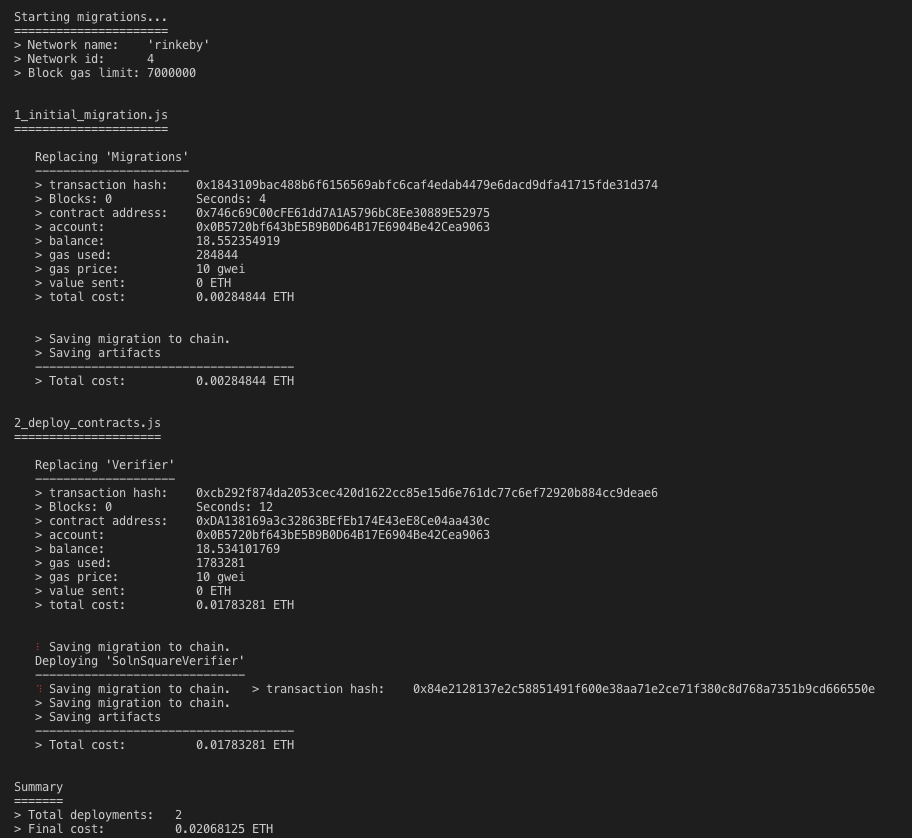
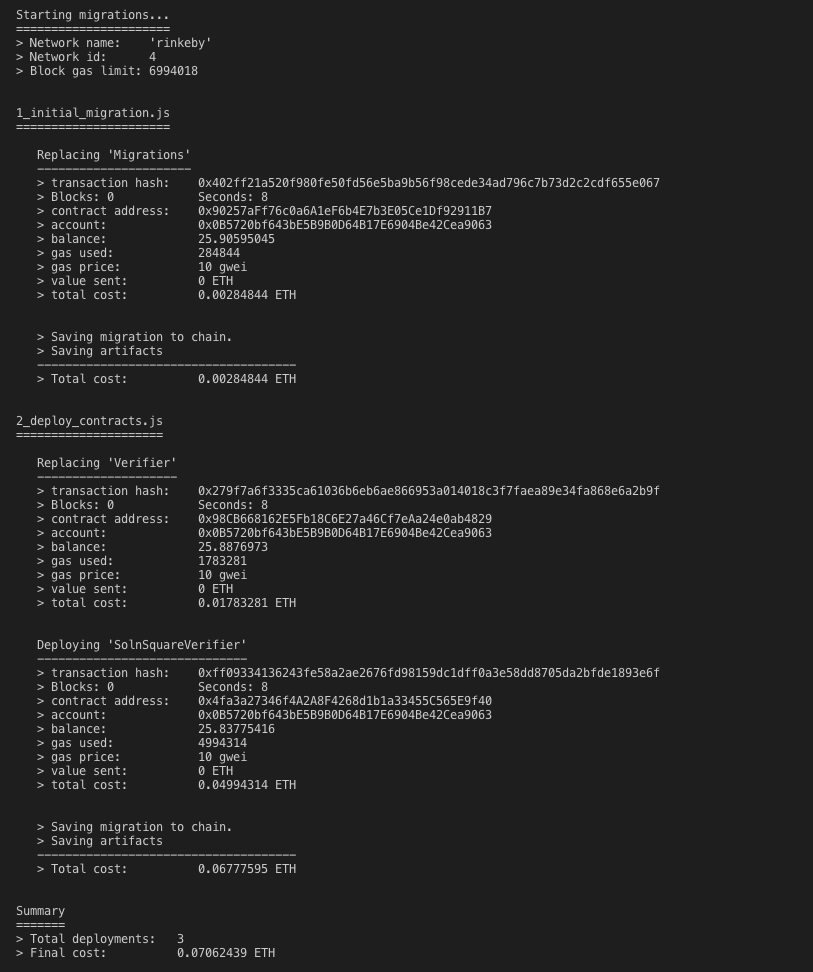
update documenatation for deploying new contract and minted 10 tokens

Changed region(s): [[0.0, 0.0, 0.7995, 0.8998], [0.0, 0.9308, 0.3383, 1.0], [0.4613, 0.8067, 0.9533, 0.8377]]

diff --git a/Blockchain-ending/eth-contracts/migrations/2_deploy_contracts.js b/Blockchain-ending/eth-contracts/migrations/2_deploy_contracts.js
@@ -9,7 +9,7 @@ module.exports = function(deployer, network, accounts) {
 
     deployer.deploy(Verifier, {from: accounts[0]})
     .then(() => {
-      deployer.deploy(SolnSquareVerifier, Verifier.address, "SquareVerifier", "SVT", {from: accounts[0]})
+      return deployer.deploy(SolnSquareVerifier, Verifier.address, "SquareVerifier", "SVT", {from: accounts[0]})
       .then(() => {
           // let config = {
           //   localhost: {

diff --git a/Blockchain-ending/README.md b/Blockchain-ending/README.md
@@ -34,15 +34,38 @@ To deploy the app to Rinkeby test network:
 
 ![truffle migration](images/deploy_rinkeby.png)
 
+The deployed addresses are: 
 
-The contract address is: 
-
-`0x73DA2c0225e9C7fF530e8725bAd3F0980A6dAFCb`
+* Deploying 'Verifier'
+```
+    contract address:    0x98CB668162E5Fb18C6E27a46Cf7eAa24e0ab4829
+```
+* Deploying 'SolnSquareVerifier'
+```
+    contract address:    0x4fa3a27346f4A2A8F4268d1b1a33455C565E9f40
+```
 
 and in etherscan shows: 
-`https://rinkeby.etherscan.io/address/0x73da2c0225e9c7ff530e8725bad3f0980a6dafcb`
+`https://rinkeby.etherscan.io/address/0x4fa3a27346f4A2A8F4268d1b1a33455C565E9f40`
 
+## Mint tokens
 
+10 tokens minted
+
+```
+
+1.  Minted token. Transaction: 0xd02fdc2b02f8241e401562339ce0d44ecc3910c2478143c415166b5744709ed6, Token ID: 40
+2.  Minted token. Transaction: 0x2807043e66d3998012c6a7b704ee5edc058fc83ae72013e1040776d4bb782d8f, Token ID: 10 
+3.  Minted token. Transaction: 0x4f1bb945aa3f1c1e961290ce2a8b70f42921b099b2552bef5042cd73f12b09a5, Token ID: 11
+4.  Minted token. Transaction: 0x8563934cd1607f5423ae008ed2ea030b43bfad877e856599e593af0f3c45537c, Token ID: 12
+5.  Minted token. Transaction: 0x597458780664fca0d096946d2087b728e084e5fdb3f1b593062b3a992c888de6, Token ID: 13
+6.  Minted token. Transaction: 0x04b00ccd3a4a3c1f6b524f446b8106abeb295427b91403e511f669fc154d1424, Token ID: 19 
+7.  Minted token. Transaction: 0x617ed2c62790bf4615382d4eb1a72f6ffd87a004b353fe27ed76e096b056617f, Token ID: 20
+8.  Minted token. Transaction: 0x86586d5e688753d2ef3268b5fc94f15fd8f56e321d4d5717f46bbecf5b84758c, Token ID: 35
+9.  Minted token. Transaction: 0x53a97a21f7ae8b0d2bfd7d52dfafc48ce63505246f843c95a4ec89b00c9a6f55, Token ID: 51 
+10. Minted token. Transaction: 0xf36167dd502e4e1f56a3f4be01deed86f7e7459d3e54bbeb4b874c608cc1474e, Token ID: 60
+
+```
 
 
 # Project Resources
